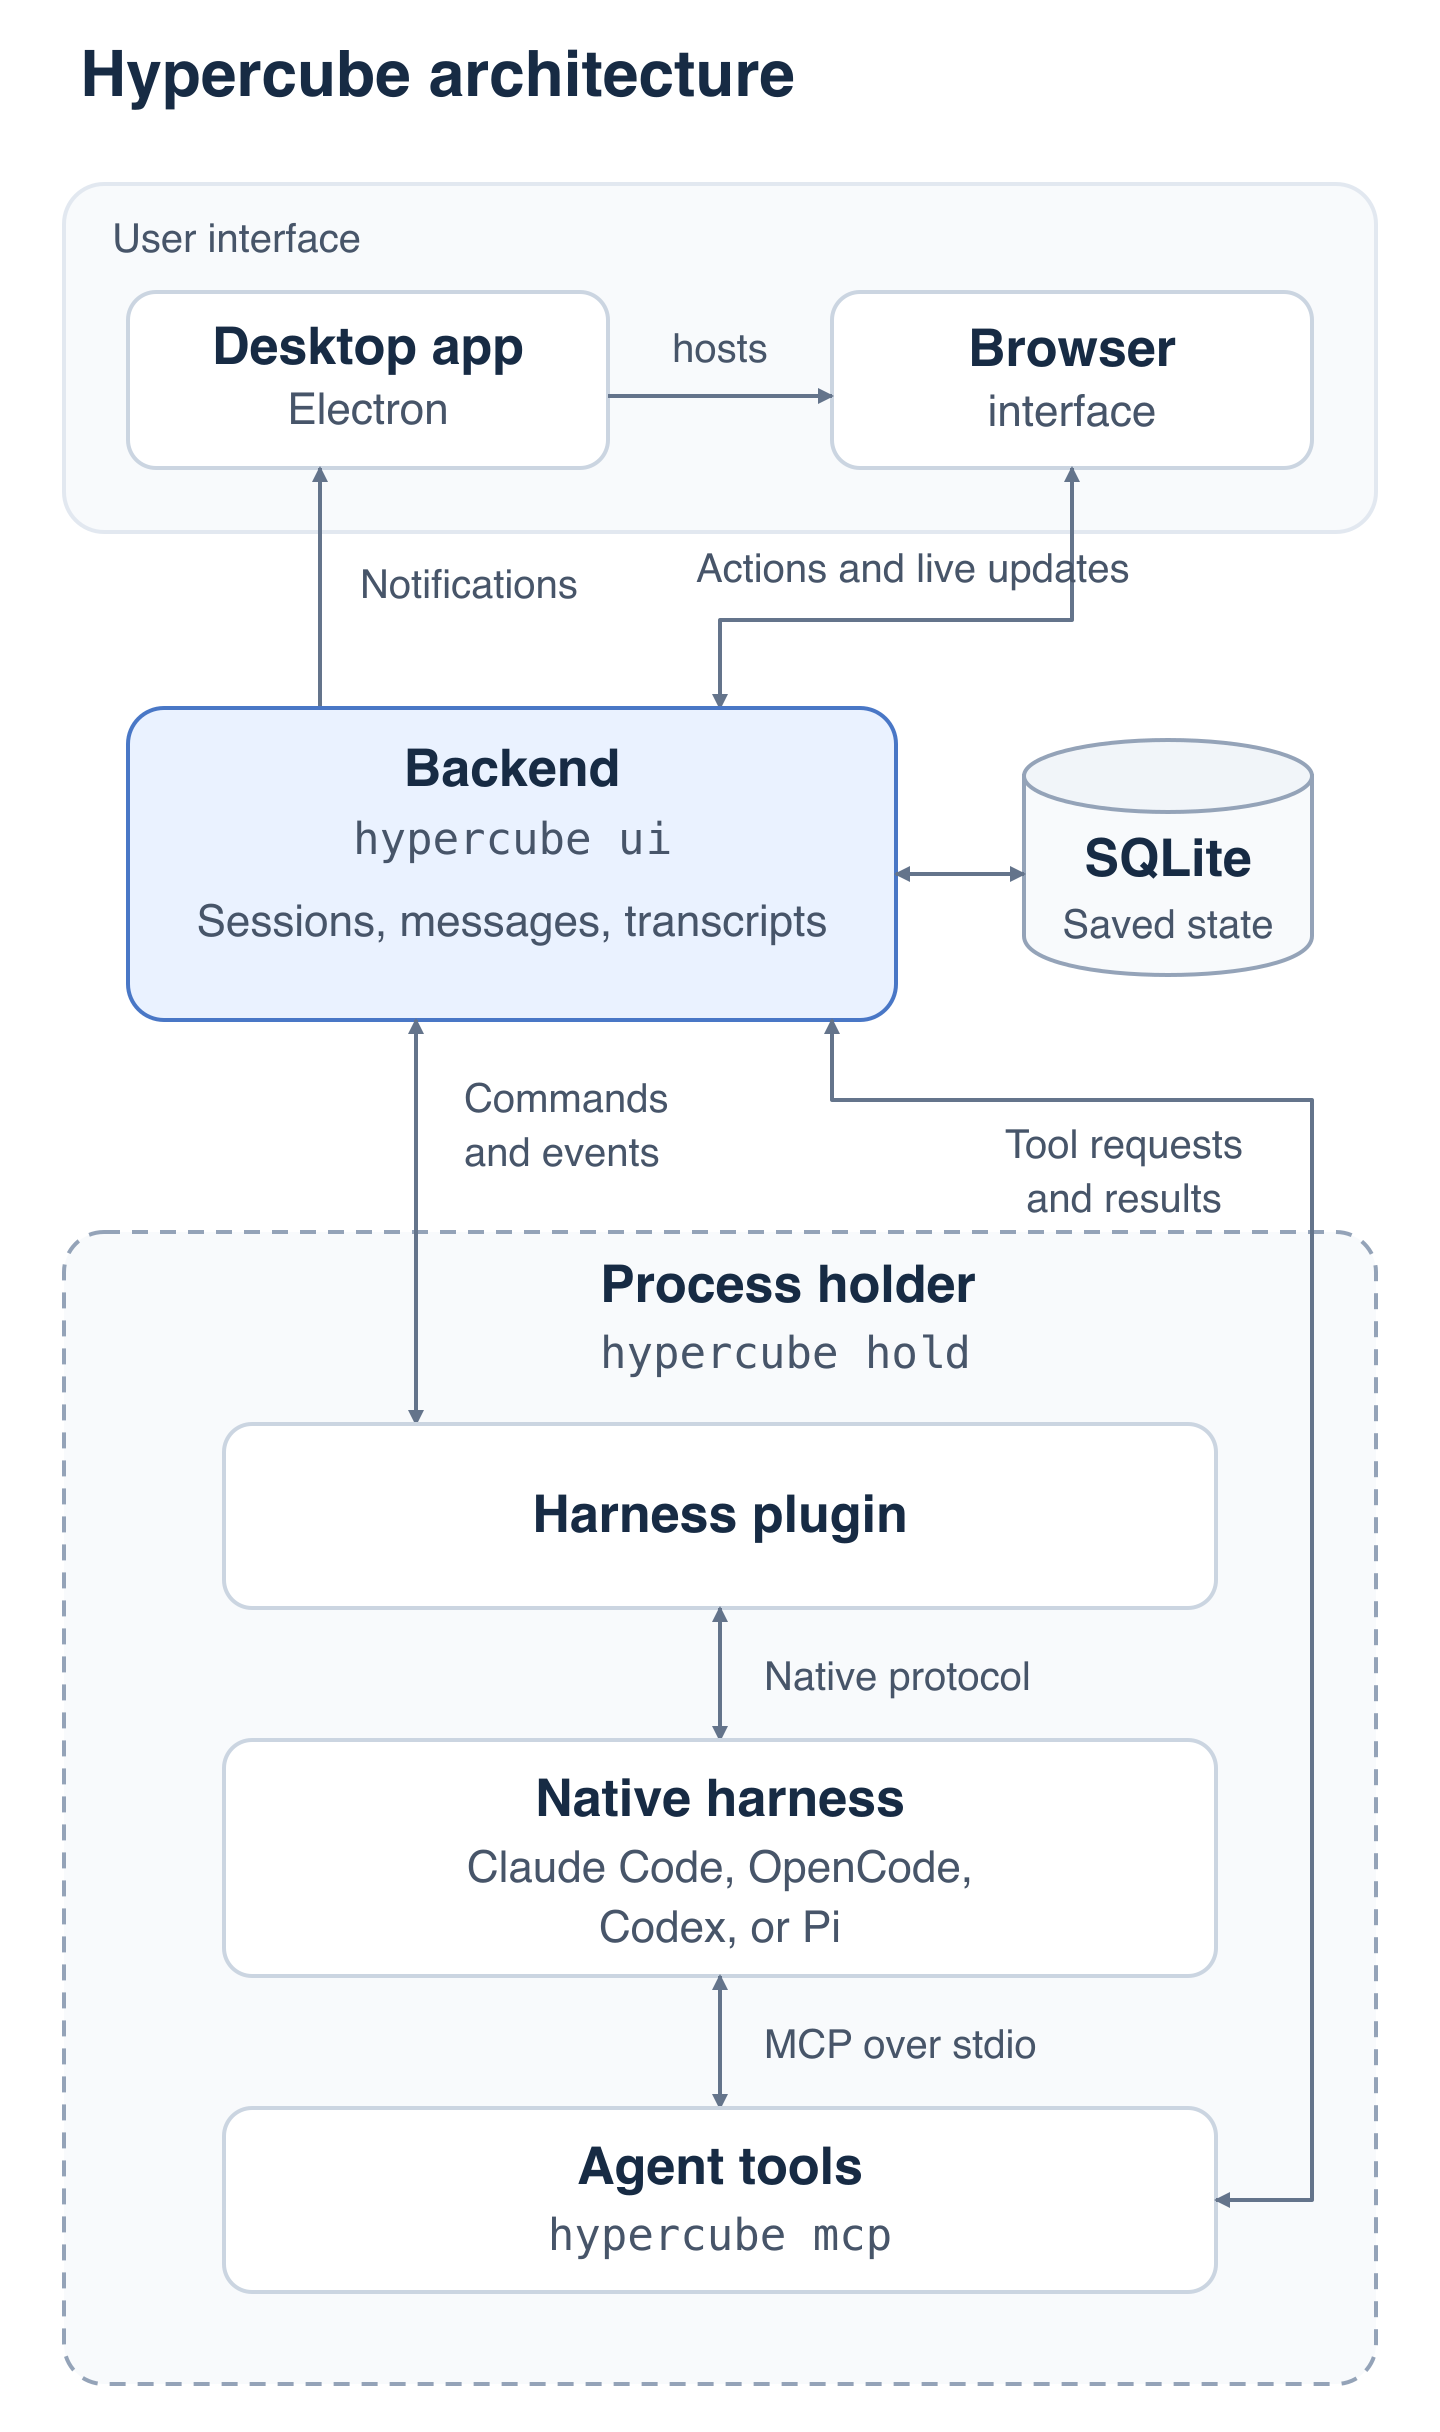
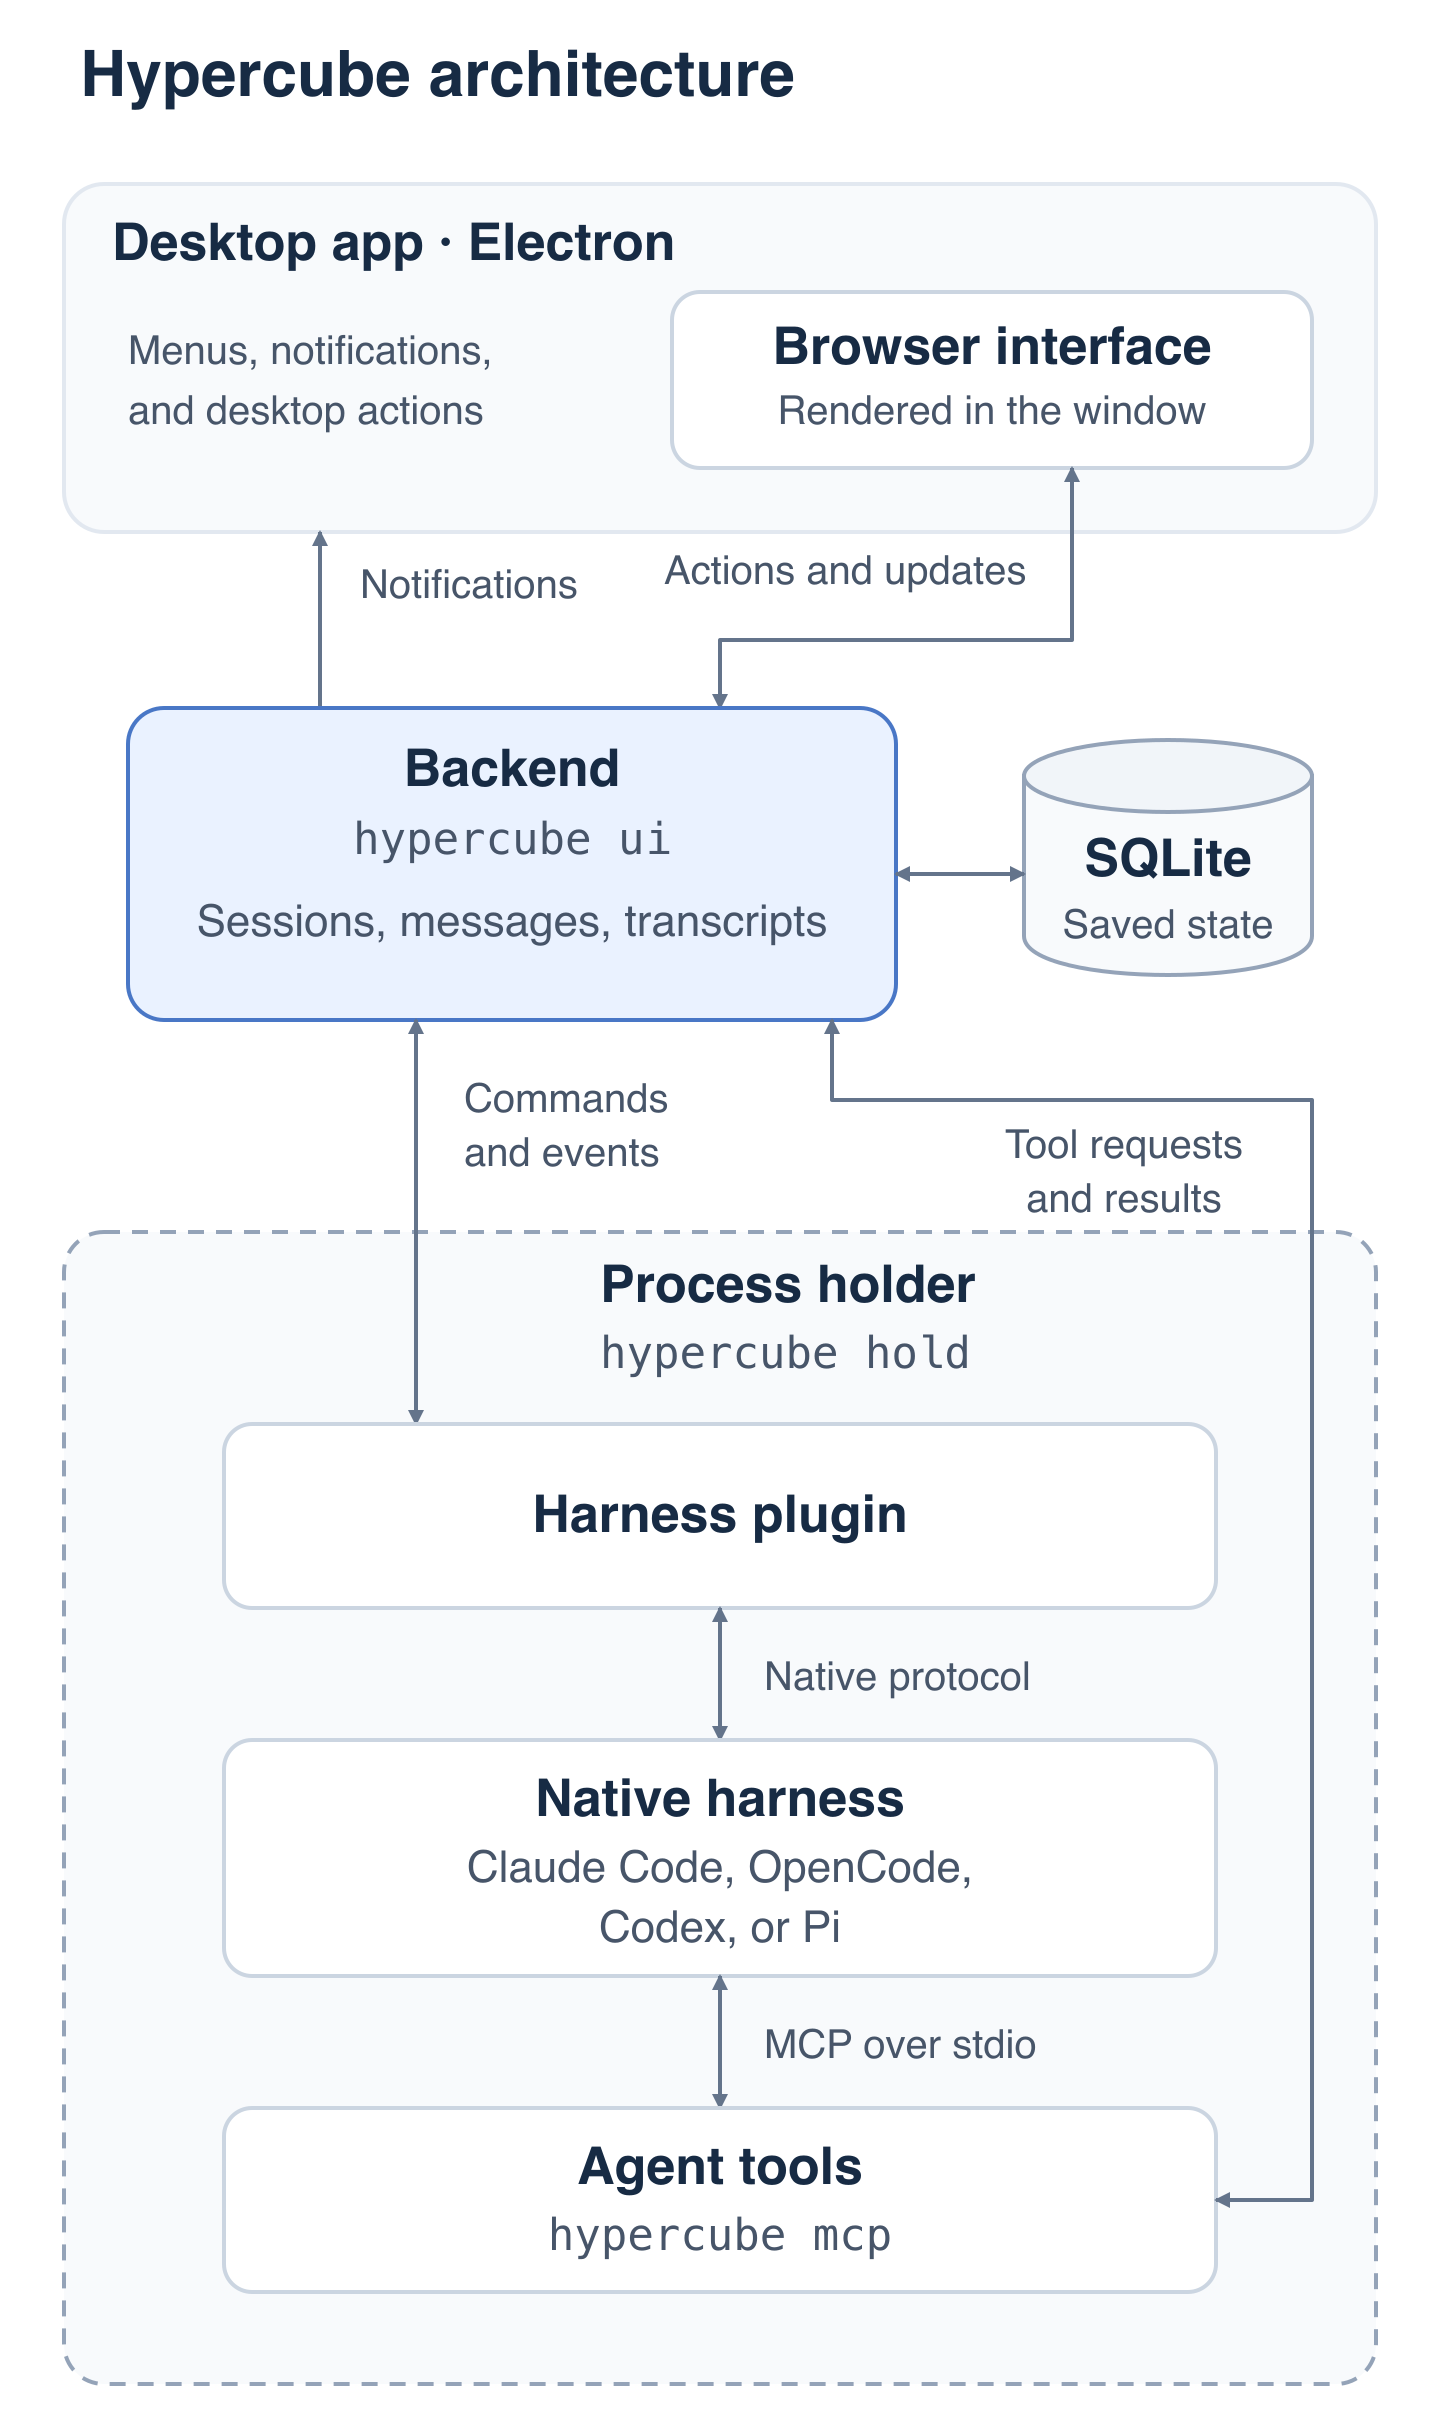
docs: show the browser interface inside Electron

diff --git a/agents/architecture.md b/agents/architecture.md
@@ -4,10 +4,10 @@
 harnesses execute the agents' work. Plugins connect the two, translating each
 harness's protocol into Hypercube commands and transcript events.
 
-![Hypercube's browser interface and desktop app connect to the backend, which
-owns SQLite state. Each agent runs under a separate process holder, with a
-harness plugin, native harness, and MCP tools that call back into the
-backend.](images/architecture.png)
+![The Electron desktop app contains the browser interface and connects to the
+backend, which owns SQLite state. Each agent runs under a separate process
+holder, with a harness plugin, native harness, and MCP tools that call back
+into the backend.](images/architecture.png)
 
 The holder keeps the agent processes alive across backend restarts. Agent tools
 return to the same backend that handles user actions; only the backend writes
